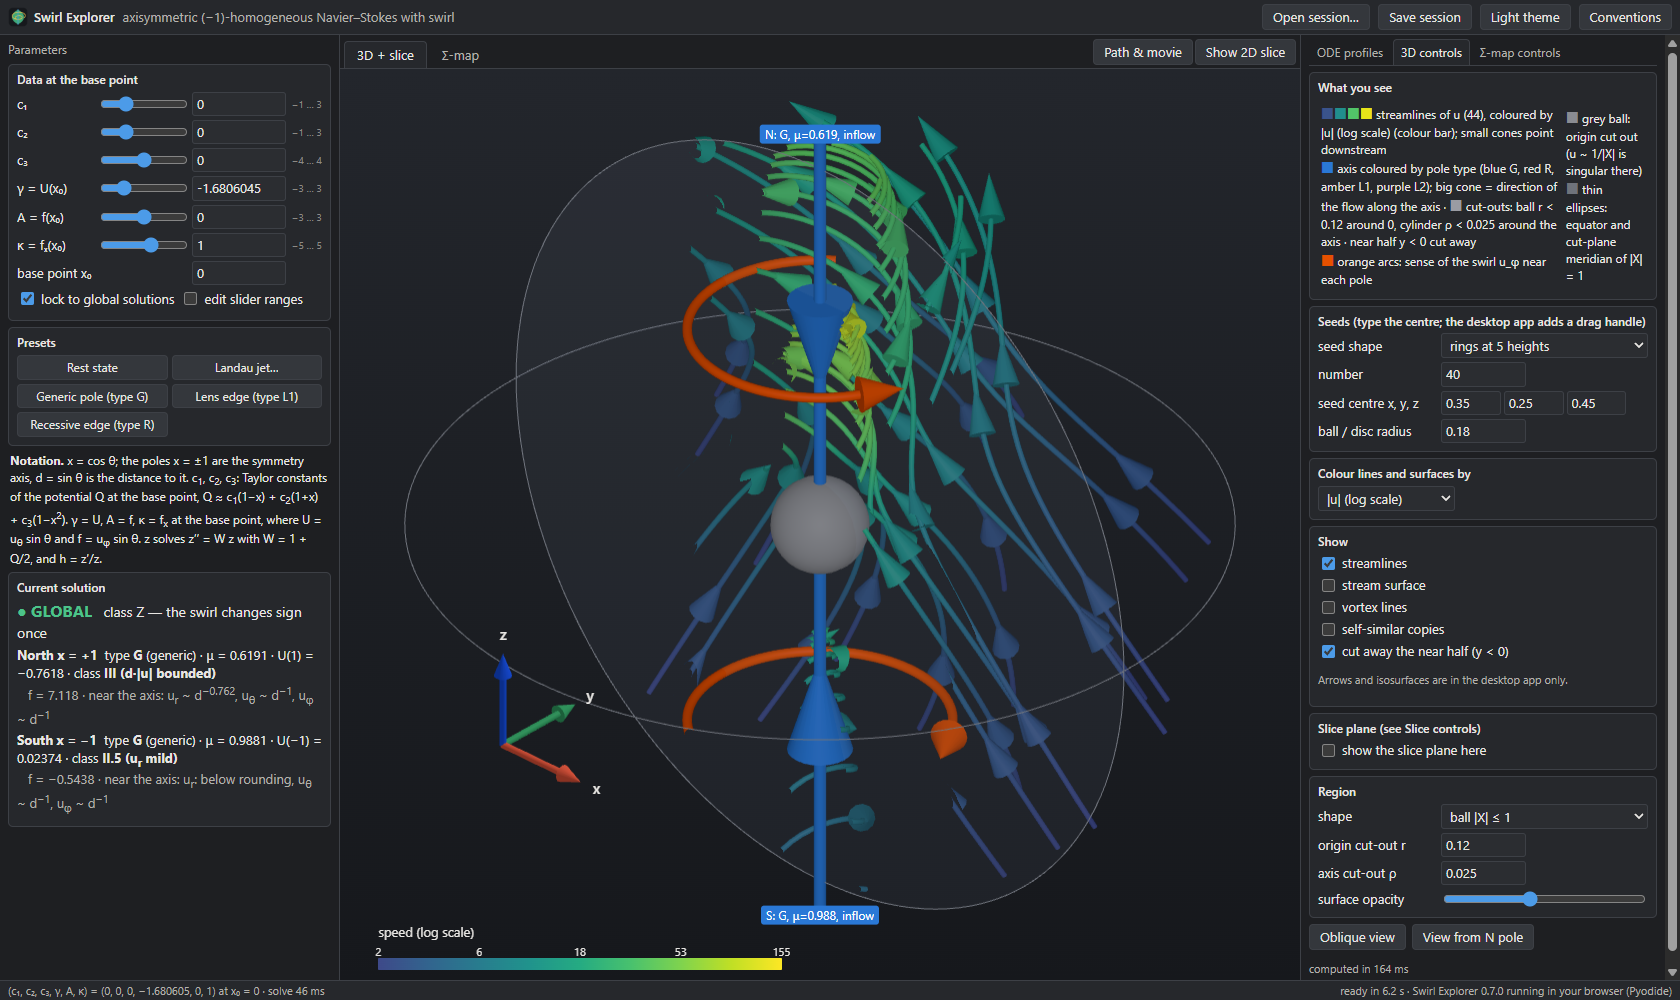
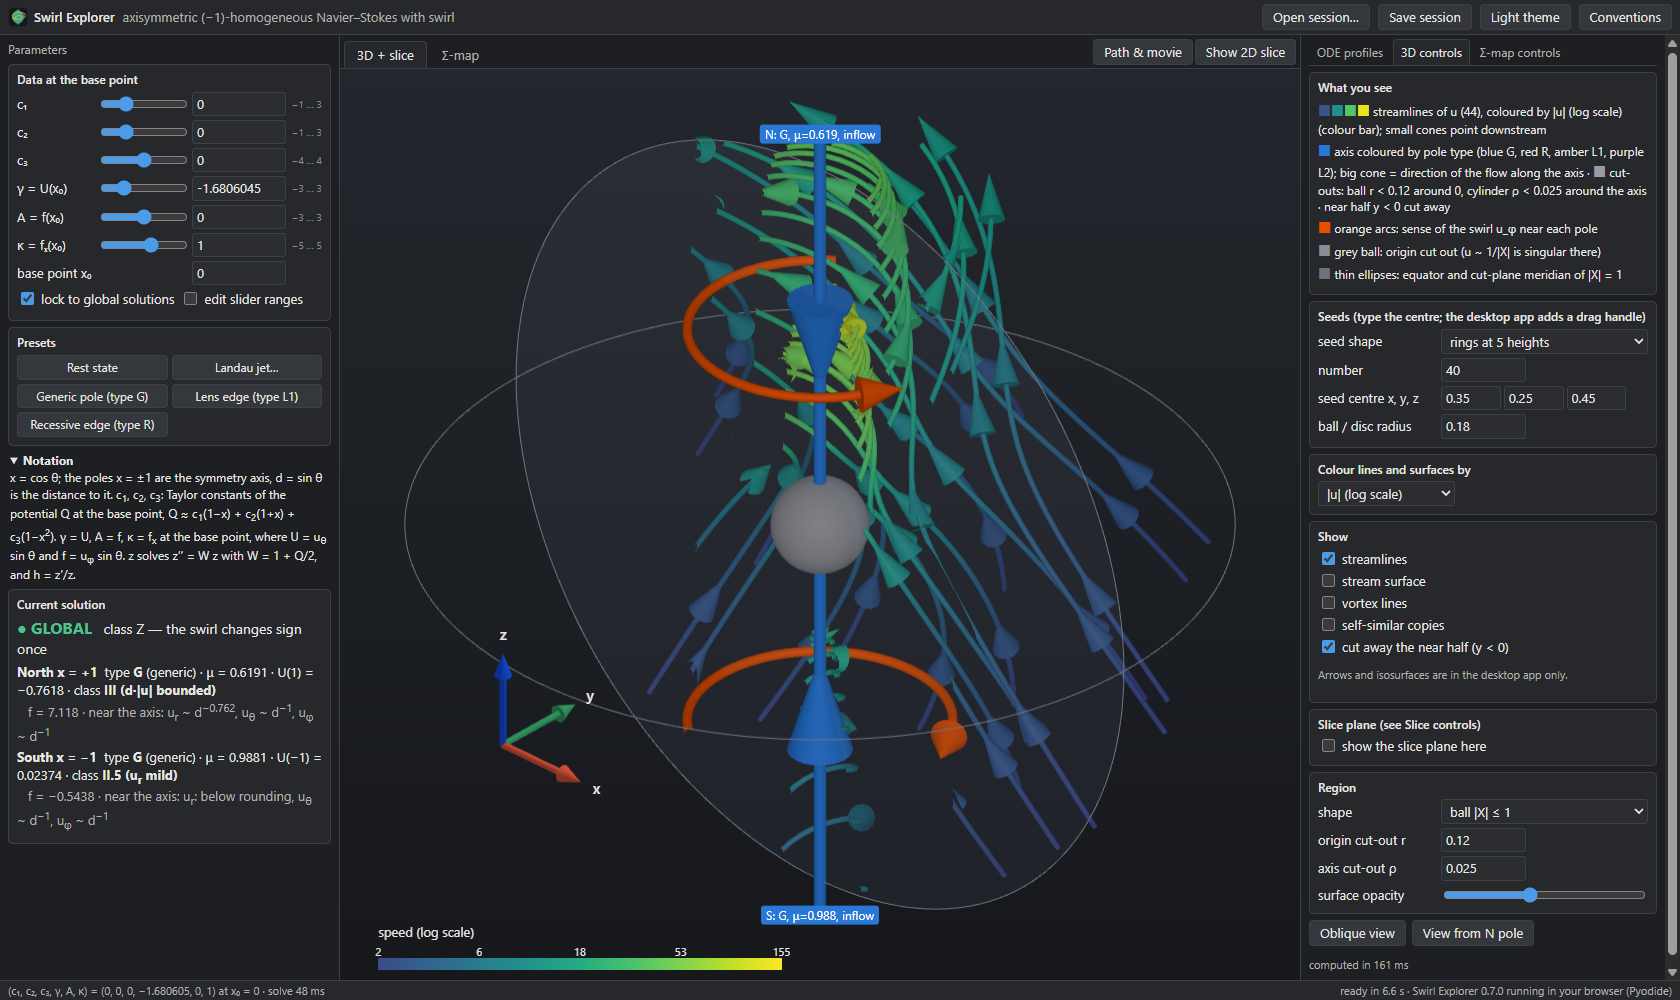
Web version, visual review round 1: one wording for failing poles, 101x101 map, video policy
- One wording for the two ways a pole fails, in the status, the 3D axis label
  and the path panel (shared code, so the desktop too): 'not reached
  (blow-up first)' / 'fails the terminal test'.
- The desktop's 101 x 101 Sigma-map grid by default (9.8 s in the browser).
- Recording: hold / leave out / show labelled for not-global frames.
- One-column legend; foldable notation while the path panel is open; keyframe
  numbers in the table; theme switch refreshes the status and the timeline.

Changed region(s): [[0.7738, 0.093, 0.9905, 0.992], [0.0, 0.434, 0.1857, 0.837], [0.8667, 0.806, 0.8976, 0.837]]

diff --git a/site/path.js b/site/path.js
@@ -56,7 +56,7 @@ export class PathDock {
     this.frames = []; this.events = []; this.index = 0; this.sel = -1; this.scanGen = 0;
     const $ = this.$;
     this.table = $("pa-table"); this.canvas = $("pa-timeline");
-    this.table.querySelector("thead").innerHTML = `<tr><th title="the path parameter at this keyframe (not physical time: the solutions are stationary)">path t</th>${NAMES.map((n) => `<th id="pa-h-${n}">${SHORT[n]}</th>`).join("")}<th title="the view this keyframe restores (camera, slice plane, seeds), chosen by the boxes above">restores view</th></tr>`;
+    this.table.querySelector("thead").innerHTML = `<tr><th>#</th><th title="the path parameter at this keyframe (not physical time: the solutions are stationary)">path t</th>${NAMES.map((n) => `<th id="pa-h-${n}">${SHORT[n]}</th>`).join("")}<th title="the view this keyframe restores (camera, slice plane, seeds), chosen by the boxes above">restores view</th></tr>`;
     $("pa-add").onclick = () => this.addKeyframe(this.getParams());
     $("pa-set").onclick = () => {
       if (this.sel < 0) return;
@@ -69,6 +69,7 @@ export class PathDock {
     $("pa-interp").onchange = () => { this.path.interpolation = $("pa-interp").value; this.changed(); };
     $("pa-frames").onchange = () => this.changed();
     $("pa-fps").onchange = () => this.updateLength();
+    $("pa-policy").onchange = () => this.updateEvents();
     $("pa-first").onclick = () => this.goto(0);
     $("pa-last").onclick = () => this.goto(this.n() - 1);
     $("pa-play").onclick = () => this.play(!this.playing);
@@ -128,7 +129,7 @@ export class PathDock {
     const $ = this.$, ks = this.path.keyframes, vary = this.varying();
     for (const n of NAMES) $(`pa-h-${n}`).textContent = SHORT[n] + (vary.includes(n) ? " (varies)" : "");
     const tb = this.table.querySelector("tbody");
-    tb.innerHTML = ks.map((k, r) => `<tr data-r="${r}" class="${r === this.sel ? "sel" : ""}"><td contenteditable data-c="t">${+k.t.toPrecision(10)}</td>` +
+    tb.innerHTML = ks.map((k, r) => `<tr data-r="${r}" class="${r === this.sel ? "sel" : ""}"><td class="const">${r + 1}</td><td contenteditable data-c="t">${+k.t.toPrecision(10)}</td>` +
       NAMES.map((n) => `<td contenteditable data-c="${n}" class="${vary.includes(n) ? "" : "const"}" ${vary.includes(n) ? 'style="font-weight:600"' : ""}>${+Number(k.params[n]).toPrecision(10)}</td>`).join("") +
       `<td class="const">${EXTRA.filter((e) => k.extras && e in k.extras).join(", ") || "—"}</td></tr>`).join("");
     tb.querySelectorAll("tr").forEach((tr) => tr.addEventListener("click", () => {
@@ -186,7 +187,7 @@ export class PathDock {
     if (this.events.length) head += `<span style="color:${COL.event}">▼</span> event &nbsp; `;
     head += `<span style="color:${COL.event}">●</span> keyframe (numbers as on the Σ-map)<br>`;
     const summary = bad === 0 ? `<b style="color:${COL.ok}">All ${n} frames are global.</b>`
-      : `<b style="color:${COL.bad}">${bad} of ${n} frames are not global.</b> A recorded video holds the last global frame there; the preview shows them as they are.`;
+      : `<b style="color:${COL.bad}">${bad} of ${n} frames are not global.</b> ${{ hold: "A recorded video holds the last global frame there (labelled HELD)", skip: "A recorded video leaves them out", mark: "A recorded video shows them, labelled NOT GLOBAL" }[this.$("pa-policy").value]}; the preview shows them as they are.`;
     const names = { leaves_global: "leaves the global set", enters_global: "comes back into the global set",
                     stratum_change: "a pole changes type", failure_change: "still not global, now" };
     const lines = this.events.slice(0, 12).map((e) => {
@@ -352,22 +353,25 @@ export class PathDock {
     rec.start();
     rec.pause();
     const frameMs = 1000 / fps;
-    let last = null, held = 0;
+    let last = null, held = 0, skipped = 0;
+    const policy = this.$("pa-policy").value;
     for (let i = 0; i < n && !stop; i++) {
       await this.goto(i);
       await this.waitIdle();
       const f = this.frames[i];
       const ok = !f || f.global;
-      if (ok || !last) {
+      if (!ok && policy === "skip") { skipped++; continue; }
+      if (ok || !last || policy === "mark") {
         view.renderNow();
         g.fillStyle = "#101114"; g.fillRect(0, 0, W, H);
         g.drawImage(src, 0, 0);
         if (ok) last = g.getImageData(0, 0, W, src.height);
+        if (!ok) { g.fillStyle = "rgba(0,0,0,0.35)"; g.fillRect(0, 0, W, src.height); }
       } else {
         g.putImageData(last, 0, 0); held++;
         g.fillStyle = "rgba(0,0,0,0.5)"; g.fillRect(0, 0, W, src.height);
       }
-      this.caption(g, W, H, cap, i, f, !ok ? (last ? "HELD · last global frame" : "NOT GLOBAL") : "");
+      this.caption(g, W, H, cap, i, f, !ok ? (policy === "hold" && last ? "HELD · last global frame" : "NOT GLOBAL") : "");
       rec.resume();                                   // the frame is on the timeline for exactly 1/fps
       track.requestFrame();
       await new Promise((r) => setTimeout(r, frameMs));
@@ -381,7 +385,7 @@ export class PathDock {
     const url = URL.createObjectURL(new Blob(chunks, { type: mime.split(";")[0] }));
     const a = document.createElement("a"); a.href = url; a.download = `swirl_path.${ext}`; a.click();
     this.recording = false; btn.textContent = "Record video…"; btn.onclick = () => this.record();
-    this.$("sb-info").textContent = `recorded ${n} frames (${(n / fps).toFixed(1)} s) as ${ext.toUpperCase()}` + (held ? ` — ${held} not-global frames held at the last global frame` : "");
+    this.$("sb-info").textContent = `recorded ${n} frames (${(n / fps).toFixed(1)} s) as ${ext.toUpperCase()}` + (held ? ` — ${held} not-global frames held at the last global frame` : "") + (skipped ? ` — ${skipped} not-global frames left out` : "");
   }
 
   waitIdle() {

diff --git a/site/app.js b/site/app.js
@@ -46,7 +46,7 @@ const S = {
   plane: { azimuth: -90, elevation: 0, offset: 0, half_size: 1.0 },
   sliceOpts: { un: true, rho: false, log: false, lines: true, lic: false, density: 1.4, follow: false },
   plots: { xvar: "xi", mode: "linear", pole: "north", quantities: ["U", "f", "Q"], overlay: true },
-  sigma: { x_name: "gamma", y_name: "kappa", x_range: [-2.6, 2.6], y_range: [-4.6, 4.6], n: 61, mode: "global",
+  sigma: { x_name: "gamma", y_name: "kappa", x_range: [-2.6, 2.6], y_range: [-4.6, 4.6], n: 101, mode: "global",
            edge: true, mu: false, computed: null, running: false, axes: [] },
   tab: "view3d", rtab: "ctl3d", solved: null,
 };
@@ -207,8 +207,7 @@ async function refreshScene(g = solveGen) {
 }
 
 function renderLegend(r) {
-  const items = r.legend || [], half = Math.ceil(items.length / 2);
-  $("legend3d").innerHTML = `<table><tr><td>${items.slice(0, half).join("<br>")}</td><td>${items.slice(half).join("<br>")}</td></tr></table>`;
+  $("legend3d").innerHTML = (r.legend || []).map((t) => `<div>${t}</div>`).join("");
   $("s-color_by").disabled = !r.coloured;
   $("s-color_by").title = r.coloured ? "" : "nothing on screen is colour-mapped right now (streamlines are dimmed while overlays are shown)";
 }
@@ -451,6 +450,7 @@ function showSlice(on) {
 
 function showPath(on) {
   $("bottom").hidden = !on;
+  $("notation").open = !on;
   $("btn-path").classList.toggle("on", on);
   view.resize();
 }
@@ -538,7 +538,7 @@ function bindSigmaControls() {
   for (const [id, k, i] of [["sg-x0", "x_range", 0], ["sg-x1", "x_range", 1], ["sg-y0", "y_range", 0], ["sg-y1", "y_range", 1]]) {
     $(id).addEventListener("change", () => { const v = parseFloat($(id).value); if (isFinite(v)) S.sigma[k][i] = v; });
   }
-  $("sg-n").addEventListener("change", () => { S.sigma.n = Math.max(11, Math.min(201, parseInt($("sg-n").value) || 61)); sync(); });
+  $("sg-n").addEventListener("change", () => { S.sigma.n = Math.max(11, Math.min(401, parseInt($("sg-n").value) || 101)); sync(); });
   $("sg-mode").addEventListener("change", () => { S.sigma.mode = $("sg-mode").value; refreshSigma(); });
   $("sg-edge").addEventListener("change", () => { S.sigma.edge = $("sg-edge").checked; refreshSigma(); });
   $("sg-mu").addEventListener("change", () => { S.sigma.mu = $("sg-mu").checked; refreshSigma(); });
@@ -625,7 +625,7 @@ async function applySession(text) {
   if (sec.plots) { Object.assign(S.plots, sec.plots); syncPlots(); }
   if (sec.sigma) {
     Object.assign(S.sigma, { x_name: sec.sigma.x_name, y_name: sec.sigma.y_name, x_range: sec.sigma.x_range,
-      y_range: sec.sigma.y_range, n: Math.min(sec.sigma.grid || 61, 201), mode: sec.sigma.mode, edge: sec.sigma.edge, mu: sec.sigma.mu });
+      y_range: sec.sigma.y_range, n: Math.min(sec.sigma.grid || 101, 401), mode: sec.sigma.mode, edge: sec.sigma.edge, mu: sec.sigma.mu });
     S.sigma.spec = null; syncSigma();
   }
   path.setPath(s.path, sec.movie || {});
@@ -651,12 +651,12 @@ function setTheme(t) {
   document.documentElement.dataset.theme = t;
   $("btn-theme").textContent = t === "dark" ? "Light theme" : "Dark theme";
   if (!py) return;
-  py.call("set_theme", t).then(() => { view.setTheme(t); refreshViews(); if (S.sliceShown) refreshSlice(); });
+  py.call("set_theme", t).then(() => { view.setTheme(t); requestSolve(); if (path) { path.drawTimeline(); path.updateEvents(); } });
 }
 
 // ============================================================================ start
 window.__errors = [];
-window.addEventListener("error", (e) => window.__errors.push(String(e.message)));
+window.addEventListener("error", (e) => { if (!/ResizeObserver loop/.test(e.message)) window.__errors.push(String(e.message)); });
 window.addEventListener("unhandledrejection", (e) => window.__errors.push(String(e.reason)));
 
 async function main() {

diff --git a/site/index.html b/site/index.html
@@ -42,11 +42,11 @@
       <h3>Presets</h3>
       <div id="presets" class="preset-grid"></div>
     </section>
-    <p class="notation"><b>Notation.</b> x = cos θ; the poles x = ±1 are the symmetry axis, d = sin θ is the distance
+    <details id="notation" class="notation" open><summary><b>Notation</b></summary> x = cos θ; the poles x = ±1 are the symmetry axis, d = sin θ is the distance
       to it. c<sub>1</sub>, c<sub>2</sub>, c<sub>3</sub>: Taylor constants of the potential Q at the base point,
       Q ≈ c<sub>1</sub>(1−x) + c<sub>2</sub>(1+x) + c<sub>3</sub>(1−x<sup>2</sup>). γ = U, A = f, κ = f<sub>x</sub>
       at the base point, where U = u<sub>θ</sub> sin θ and f = u<sub>φ</sub> sin θ. z solves z′′ = W z with
-      W = 1 + Q/2, and h = z′/z.</p>
+      W = 1 + Q/2, and h = z′/z.</details>
     <section class="group status">
       <h3>Current solution</h3>
       <div id="st-head">—</div>
@@ -198,7 +198,7 @@
           <label>from / to <span class="pair"><input id="sg-x0" type="number" step="0.1"><input id="sg-x1" type="number" step="0.1"></span></label>
           <label>vertical <select id="sg-y"></select></label>
           <label>from / to <span class="pair"><input id="sg-y0" type="number" step="0.1"><input id="sg-y1" type="number" step="0.1"></span></label>
-          <label title="points per axis; the browser shares the work between several background workers">grid <input id="sg-n" type="number" min="11" max="201" step="10" value="61"></label>
+          <label title="points per axis; the browser shares the work between several background workers">grid <input id="sg-n" type="number" min="11" max="401" step="10" value="101"></label>
         </div>
         <p id="sg-fixed" class="muted small"></p>
       </section>
@@ -247,7 +247,9 @@
           <input id="pa-fps" type="number" min="1" max="60" value="24" title="frames per second"> fps
           <span id="pa-len" class="muted"></span>
           <span class="spacer"></span>
-          <button id="pa-video" title="record the 3D view along the path as a video file">Record video…</button>
+          <label title="what a recorded video shows where the solution is not global">not-global frames in the video:
+            <select id="pa-policy"><option value="hold">hold the last global frame</option><option value="skip">leave out</option><option value="mark">show, labelled</option></select></label>
+          <button id="pa-video" title="record the 3D view along the path as a video file (MP4 or WebM)">Record video…</button>
         </div>
         <canvas id="pa-timeline" height="80"></canvas>
         <div id="pa-frame" class="small"></div>
@@ -280,7 +282,7 @@
     4–5 times slower than the desktop app, and the Σ-map is shared between several background workers.</p>
   <p>Differences from the desktop app: no draggable seed or plane handles (type the values), no arrow glyphs or
     isosurfaces in 3D, video recording (WebM/MP4 of the 3D view with the caption strip) instead of the composited
-    MP4 export, and a 61 × 61 default Σ-map grid (the desktop uses 101 × 101).</p>
+    MP4 export.</p>
   <p>Keyboard: Ctrl+O opens a session, Ctrl+S saves one.</p>
   <form method="dialog"><button>Close</button></form>
 </dialog>

diff --git a/site/style.css b/site/style.css
@@ -51,7 +51,7 @@ label.chk { display: inline-flex; gap: 4px; align-items: center; cursor: pointer
 #left { grid-area: left; overflow-y: auto; padding: 4px 8px; border-right: 1px solid var(--border); }
 #center { grid-area: center; display: flex; flex-direction: column; min-width: 0; min-height: 0; }
 #right { grid-area: right; overflow-y: auto; padding: 4px 8px; border-left: 1px solid var(--border); }
-#bottom { grid-area: bottom; border-top: 1px solid var(--border); padding: 2px 8px 6px; height: 260px; }
+#bottom { grid-area: bottom; border-top: 1px solid var(--border); padding: 2px 8px 6px; height: 230px; }
 #statusbar { grid-area: status; display: flex; padding: 2px 8px; font-size: 11px; color: var(--muted);
   border-top: 1px solid var(--border); background: var(--panel); }
 
@@ -65,6 +65,7 @@ label.chk { display: inline-flex; gap: 4px; align-items: center; cursor: pointer
 .preset-grid { display: grid; grid-template-columns: 1fr 1fr; gap: 4px; }
 .preset-grid button { padding: 3px 4px; font-size: 12px; }
 .notation { font-size: 12px; margin: 6px 2px; }
+.notation summary { cursor: pointer; }
 .status #st-head { font-size: 14px; margin-bottom: 4px; }
 .status #st-north, .status #st-south { font-size: 13px; margin: 3px 0; }
 

diff --git a/swirl_explorer/viz/status_text.py b/swirl_explorer/viz/status_text.py
@@ -41,7 +41,7 @@ def pole_line(name: str, d: PoleDiagnostics, sign: int) -> tuple[str, str]:
     if d.stratum == "blowup":
         return f"<b>{name}</b> &nbsp;<span style='color:{_col('bad')}'>not reached (blow-up first)</span>", d.note
     if d.stratum == "unsafe":
-        return (f"<b>{name}</b> &nbsp;<span style='color:{_col('bad')}'>no admissible pole limit</span>",
+        return (f"<b>{name}</b> &nbsp;<span style='color:{_col('bad')}'>fails the terminal test (no admissible pole limit)</span>",
                 "the solution would blow up beyond the computed window (book's terminal test)")
     U = d.U_lim if sign > 0 else -d.U_lim
     pole = "U(1)" if sign > 0 else "U(−1)"
@@ -80,7 +80,8 @@ def head_html(sm: Summary) -> str:
         what = "U → −∞" if sm.north.stratum == "blowup" else "U → +∞"
         where = f" &nbsp; blow-up: {what} at x = {sm.blowup_x:+.6f}".replace("-", "−")
     else:
-        where = " &nbsp; a pole has no admissible limit"
+        side = "north" if sm.north.stratum == "unsafe" else "south"
+        where = f" &nbsp; the {side} pole fails the terminal test"
     return f"<span style='color:{_col('bad')};font-size:16px'><b>● NOT GLOBAL</b></span>{where}"
 
 

diff --git a/swirl_explorer/viz/scene_values.py b/swirl_explorer/viz/scene_values.py
@@ -75,8 +75,10 @@ def axis_info(summary: Summary, domain: Domain, fi: Optional[FieldInterpolator] 
     for sign, diag, name in ((+1, summary.north, "N"), (-1, summary.south, "S")):
         col = STRATUM_COLORS.get(diag.stratum, "#8a8986")
         up = 0
-        if diag.stratum in ("blowup", "unsafe"):
-            lab = f"{name}: not reached"
+        if diag.stratum == "blowup":
+            lab = f"{name}: not reached (blow-up first)"
+        elif diag.stratum == "unsafe":
+            lab = f"{name}: fails the terminal test"
         else:
             lab = f"{name}: {diag.stratum}, μ={diag.mu:.3g}"
             if fi is not None:

diff --git a/tests/test_streamlines_scene.py b/tests/test_streamlines_scene.py
@@ -102,7 +102,7 @@ def test_compute_scene_variants(sol, kw):
 def test_scene_for_nonglobal_solution():
     s = solve(Params(gamma=-1.9, kappa=1.0))       # blows up near the north pole
     data = compute_scene(s, summarize(s), SceneSettings(show_iso=True))
-    assert "not reached" in data.axis[0][2]
+    assert "not reached" in data.axis[0][2] or "fails the terminal test" in data.axis[0][2]
     assert data.n_lines > 0
 
 
